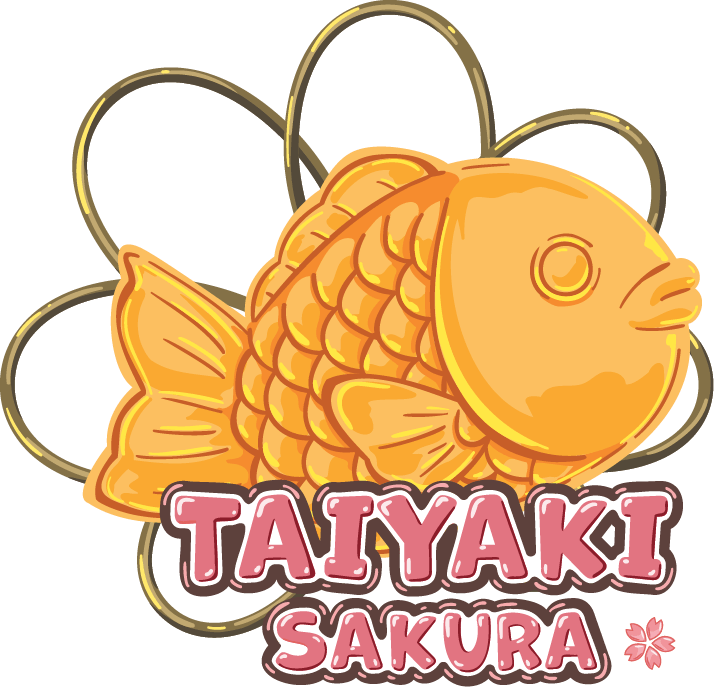
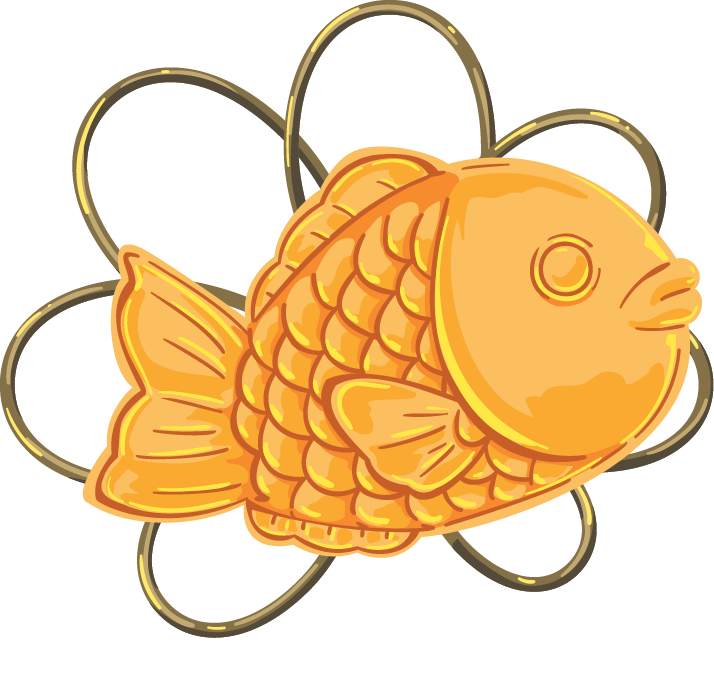
🌸 restructure layouts, sync zh pages, add footer i18n
- Extract Barebone.astro as bare HTML shell; BaseLayout wraps it with Header/Footer slot
- Homepage uses Barebone directly for hero <aside> + sticky header design
- Sync zh/index.astro and add zh/inner.astro to mirror English page structure
- Add co-located i18n to LayoutFooter (All rights reserved / 版權所有)
- Add --header-height CSS variable to @user
- Remove predev/prebuild hooks; expose optimize-images as explicit script
- Update README with project-specific docs

Changed region(s): [[0.2157, 0.6667, 0.9552, 1.0]]

diff --git a/src/styles/global.css b/src/styles/global.css
@@ -24,6 +24,9 @@
   --color-shade-300: oklch(0.744 0.079 86.5);
   --color-shade-500: oklch(0.556 0.063 86.1);
   --color-shade-700: oklch(0.414 0.029 79.4);
+
+  /* UI variables */
+  --header-height: 6.5rem;
 }
 
 @layer utilities {
@@ -77,11 +80,20 @@
   [type="reset"] {
     cursor:
       image-set(
+          url("/cursors/default.png") 1x,
+          url("/cursors/[email redacted]") 2x
+        )
+        0 0,
+      default;
+    /* Temporarily disabled because design change.
+    cursor:
+      image-set(
           url("/cursors/pointer.png") 1x,
           url("/cursors/[email redacted]") 2x
         )
         12 0,
       pointer;
+    */
   }
 
   /* Focus ring for inline navigation elements.

diff --git a/README.md b/README.md
@@ -1,43 +1,28 @@
-# Astro Starter Kit: Minimal
+# Taiyaki Sakura
 
-```sh
-pnpm create astro@latest -- --template minimal
-```
+Minecraft server website — bilingual (EN / 中文), deployed on Cloudflare Workers via Astro 6.4 SSR.
 
-> 🧑🚀 **Seasoned astronaut?** Delete this file. Have fun!
+## Commands
 
-## 🚀 Project Structure
+| Command | Action |
+| :--- | :--- |
+| `pnpm install` | Install dependencies |
+| `pnpm dev` | Start local dev server at `localhost:4321` |
+| `pnpm build` | Build for production to `./dist/` |
+| `pnpm preview` | Preview production build locally |
+| `pnpm optimize-images` | Convert `src/images/*.png` → AVIF + WebP + PNG in `public/images/` |
 
-Inside of your Astro project, you'll see the following folders and files:
+## Image optimization
 
-```text
-/
-├── public/
-├── src/
-│   └── pages/
-│       └── index.astro
-└── package.json
-```
+Images are **not** optimized automatically on `dev` or `build`. Run `pnpm optimize-images` manually after adding or changing source images in `src/images/`.
 
-Astro looks for `.astro` or `.md` files in the `src/pages/` directory. Each page is exposed as a route based on its file name.
+Source images live in `src/images/` and are not served directly — the optimized outputs in `public/images/` are what gets deployed. Commit both the source and the optimized outputs.
 
-There's nothing special about `src/components/`, but that's where we like to put any Astro/React/Vue/Svelte/Preact components.
+## i18n
 
-Any static assets, like images, can be placed in the `public/` directory.
+- `/` — English (default, no prefix)
+- `/zh/` — Traditional Chinese
 
-## 🧞 Commands
+## Deployment
 
-All commands are run from the root of the project, from a terminal:
-
-| Command                   | Action                                           |
-| :------------------------ | :----------------------------------------------- |
-| `pnpm install`             | Installs dependencies                            |
-| `pnpm dev`             | Starts local dev server at `localhost:4321`      |
-| `pnpm build`           | Build your production site to `./dist/`          |
-| `pnpm preview`         | Preview your build locally, before deploying     |
-| `pnpm astro ...`       | Run CLI commands like `astro add`, `astro check` |
-| `pnpm astro -- --help` | Get help using the Astro CLI                     |
-
-## 👀 Want to learn more?
-
-Feel free to check [our documentation](https://docs.astro.build) or jump into our [Discord server](https://astro.build/chat).
+Deployed to Cloudflare Workers. Run `npx wrangler deploy` after `pnpm build`, or push to the branch connected to your Cloudflare Pages / Workers CI.